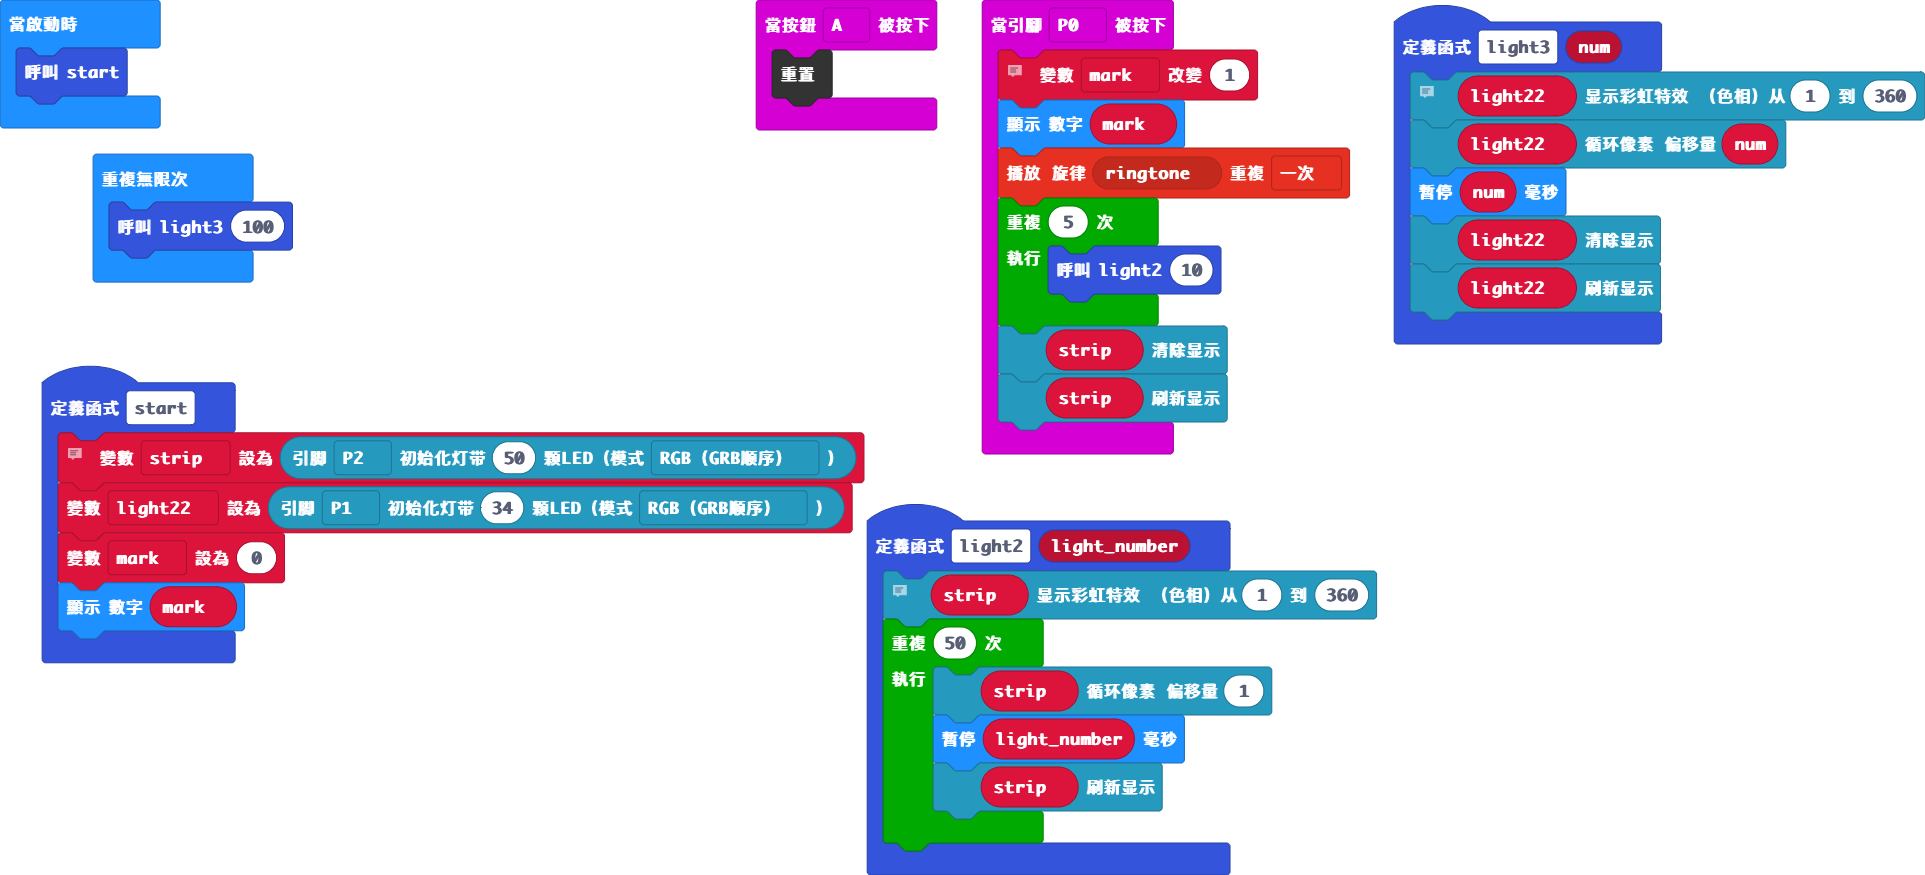
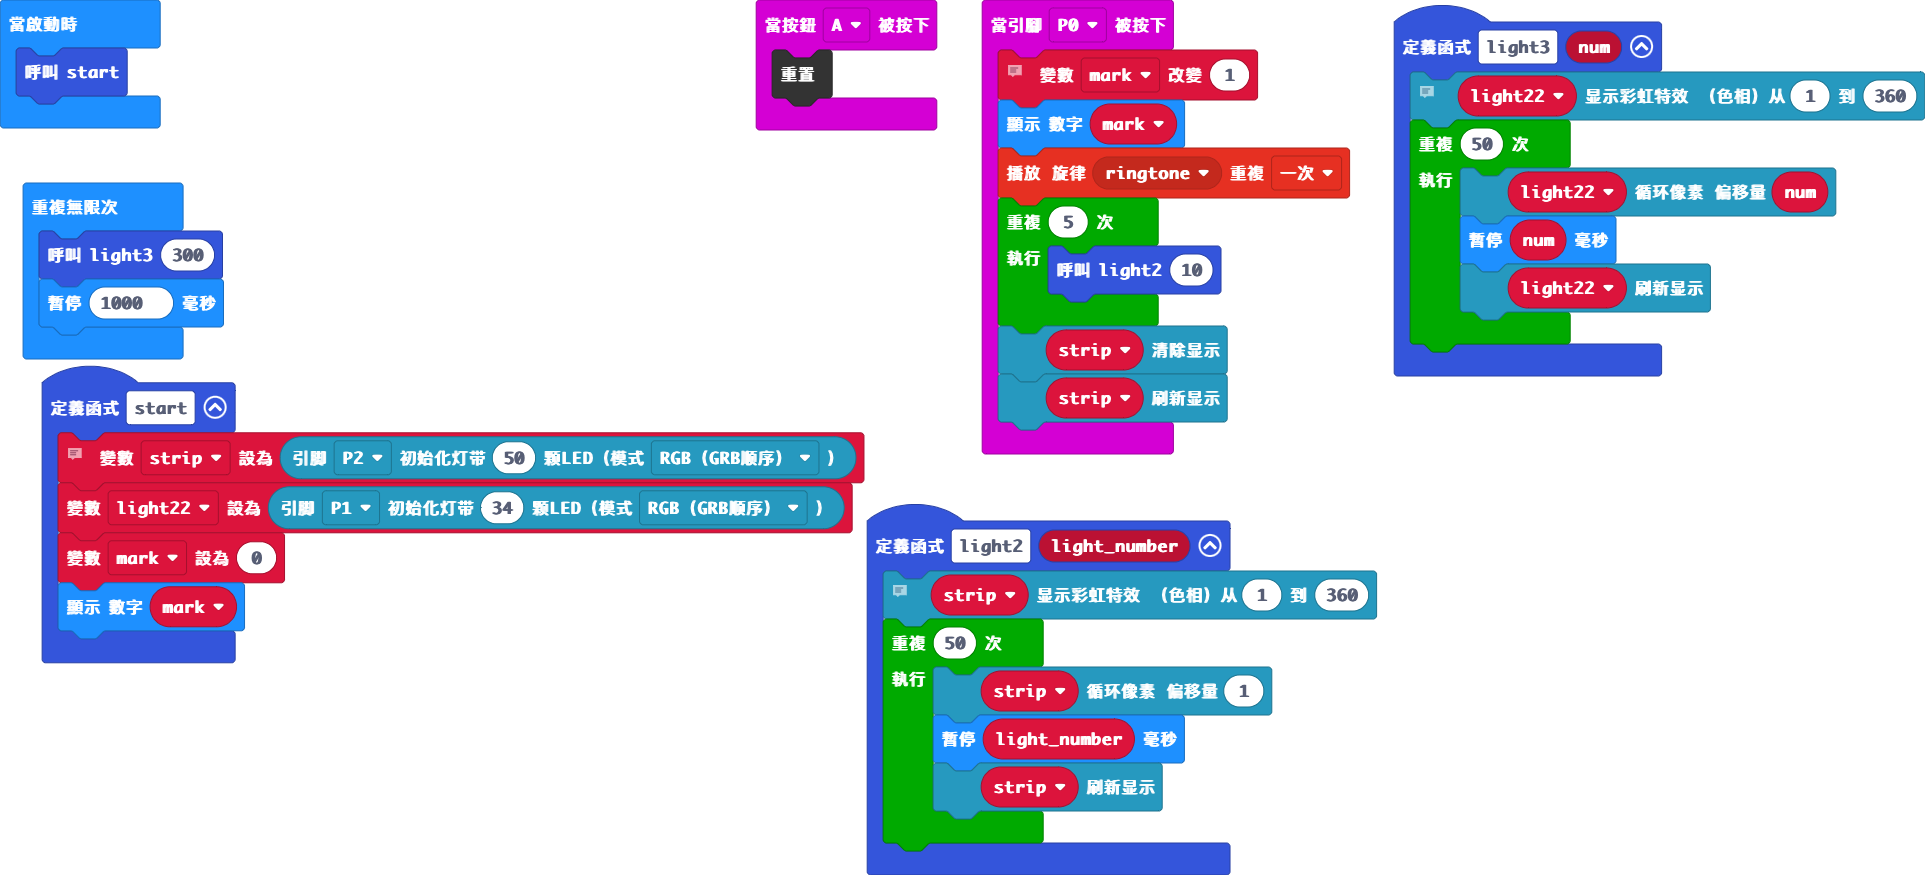
更新 main.blocks, main.ts

diff --git a/main.ts b/main.ts
@@ -15,10 +15,11 @@ input.onButtonPressed(Button.A, function () {
 function light3 (num: number) {
     // light
     light22.showRainbow(1, 360)
-    light22.rotate(num)
-    basic.pause(num)
-    light22.clear()
-    light22.show()
+    for (let index = 0; index < 50; index++) {
+        light22.rotate(num)
+        basic.pause(num)
+        light22.show()
+    }
 }
 function start () {
     // start
@@ -41,5 +42,6 @@ let strip: neopixel.Strip = null
 let mark = 0
 start()
 basic.forever(function () {
-    light3(100)
+    light3(300)
+    basic.pause(1000)
 })
